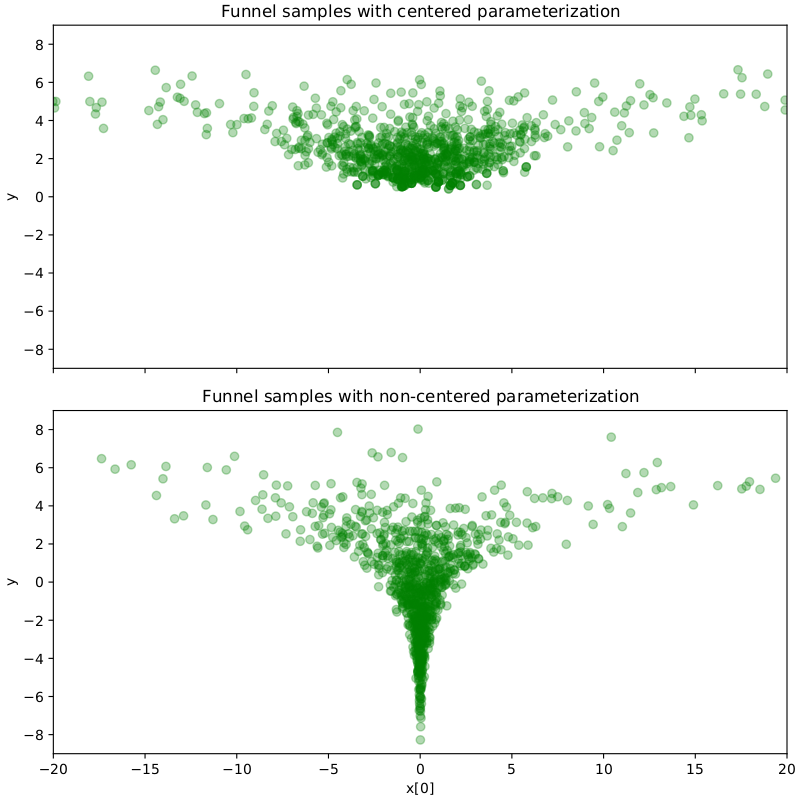
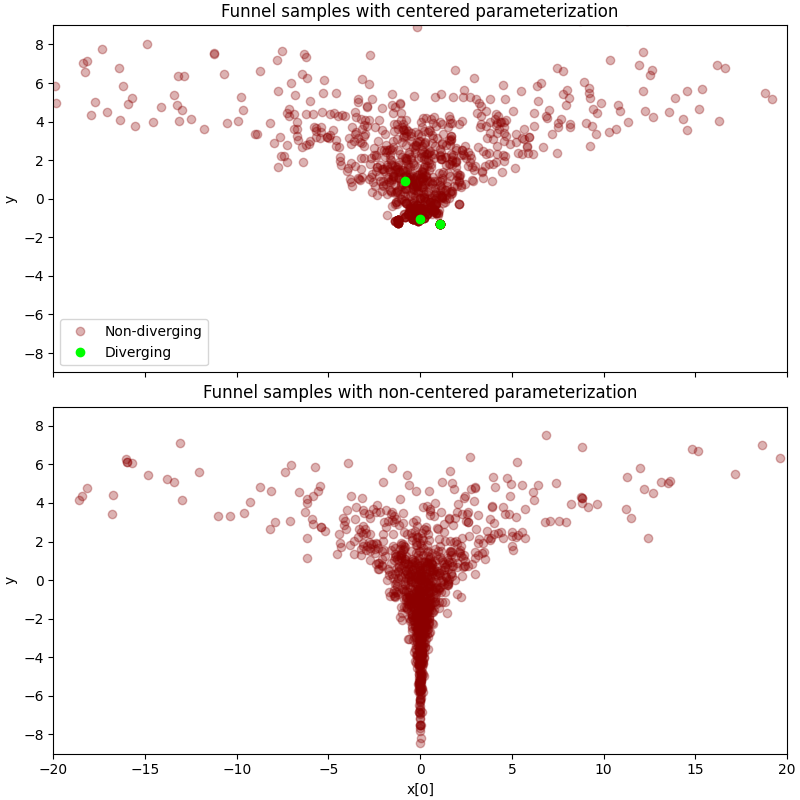
color divergences

diff --git a/examples/funnel.py b/examples/funnel.py
@@ -60,7 +60,7 @@ def run_inference(model, args, rng_key):
     )
     mcmc.run(rng_key)
     mcmc.print_summary(exclude_deterministic=False)
-    return mcmc.get_samples()
+    return mcmc
 
 
 def main(args):
@@ -70,13 +70,17 @@ def main(args):
     print(
         "============================= Centered Parameterization =============================="
     )
-    samples = run_inference(model, args, rng_key)
+    mcmc = run_inference(model, args, rng_key)
+    samples = mcmc.get_samples()
+    diverging = mcmc.get_extra_fields()["diverging"]
 
     # do inference with non-centered parameterization
     print(
         "\n=========================== Non-centered Parameterization ============================"
     )
-    reparam_samples = run_inference(reparam_model, args, rng_key)
+    reparam_mcmc = run_inference(reparam_model, args, rng_key)
+    reparam_samples = reparam_mcmc.get_samples()
+    reparam_diverging = reparam_mcmc.get_extra_fields()["diverging"]
     # collect deterministic sites
     reparam_samples = Predictive(
         reparam_model, reparam_samples, return_sites=["x", "y"]
@@ -87,15 +91,42 @@ def main(args):
         2, 1, sharex=True, figsize=(8, 8), constrained_layout=True
     )
 
-    ax1.plot(samples["x"][:, 0], samples["y"], "go", alpha=0.3)
+    ax1.plot(
+        samples["x"][~diverging, 0],
+        samples["y"][~diverging],
+        "o",
+        color="darkred",
+        alpha=0.3,
+        label="Non-diverging",
+    )
+    ax1.plot(
+        samples["x"][diverging, 0],
+        samples["y"][diverging],
+        "o",
+        color="lime",
+        label="Diverging",
+    )
     ax1.set(
         xlim=(-20, 20),
         ylim=(-9, 9),
         ylabel="y",
         title="Funnel samples with centered parameterization",
     )
+    ax1.legend()
 
-    ax2.plot(reparam_samples["x"][:, 0], reparam_samples["y"], "go", alpha=0.3)
+    ax2.plot(
+        reparam_samples["x"][~reparam_diverging, 0],
+        reparam_samples["y"][~reparam_diverging],
+        "o",
+        color="darkred",
+        alpha=0.3,
+    )
+    ax2.plot(
+        reparam_samples["x"][reparam_diverging, 0],
+        reparam_samples["y"][reparam_diverging],
+        "o",
+        color="lime",
+    )
     ax2.set(
         xlim=(-20, 20),
         ylim=(-9, 9),
